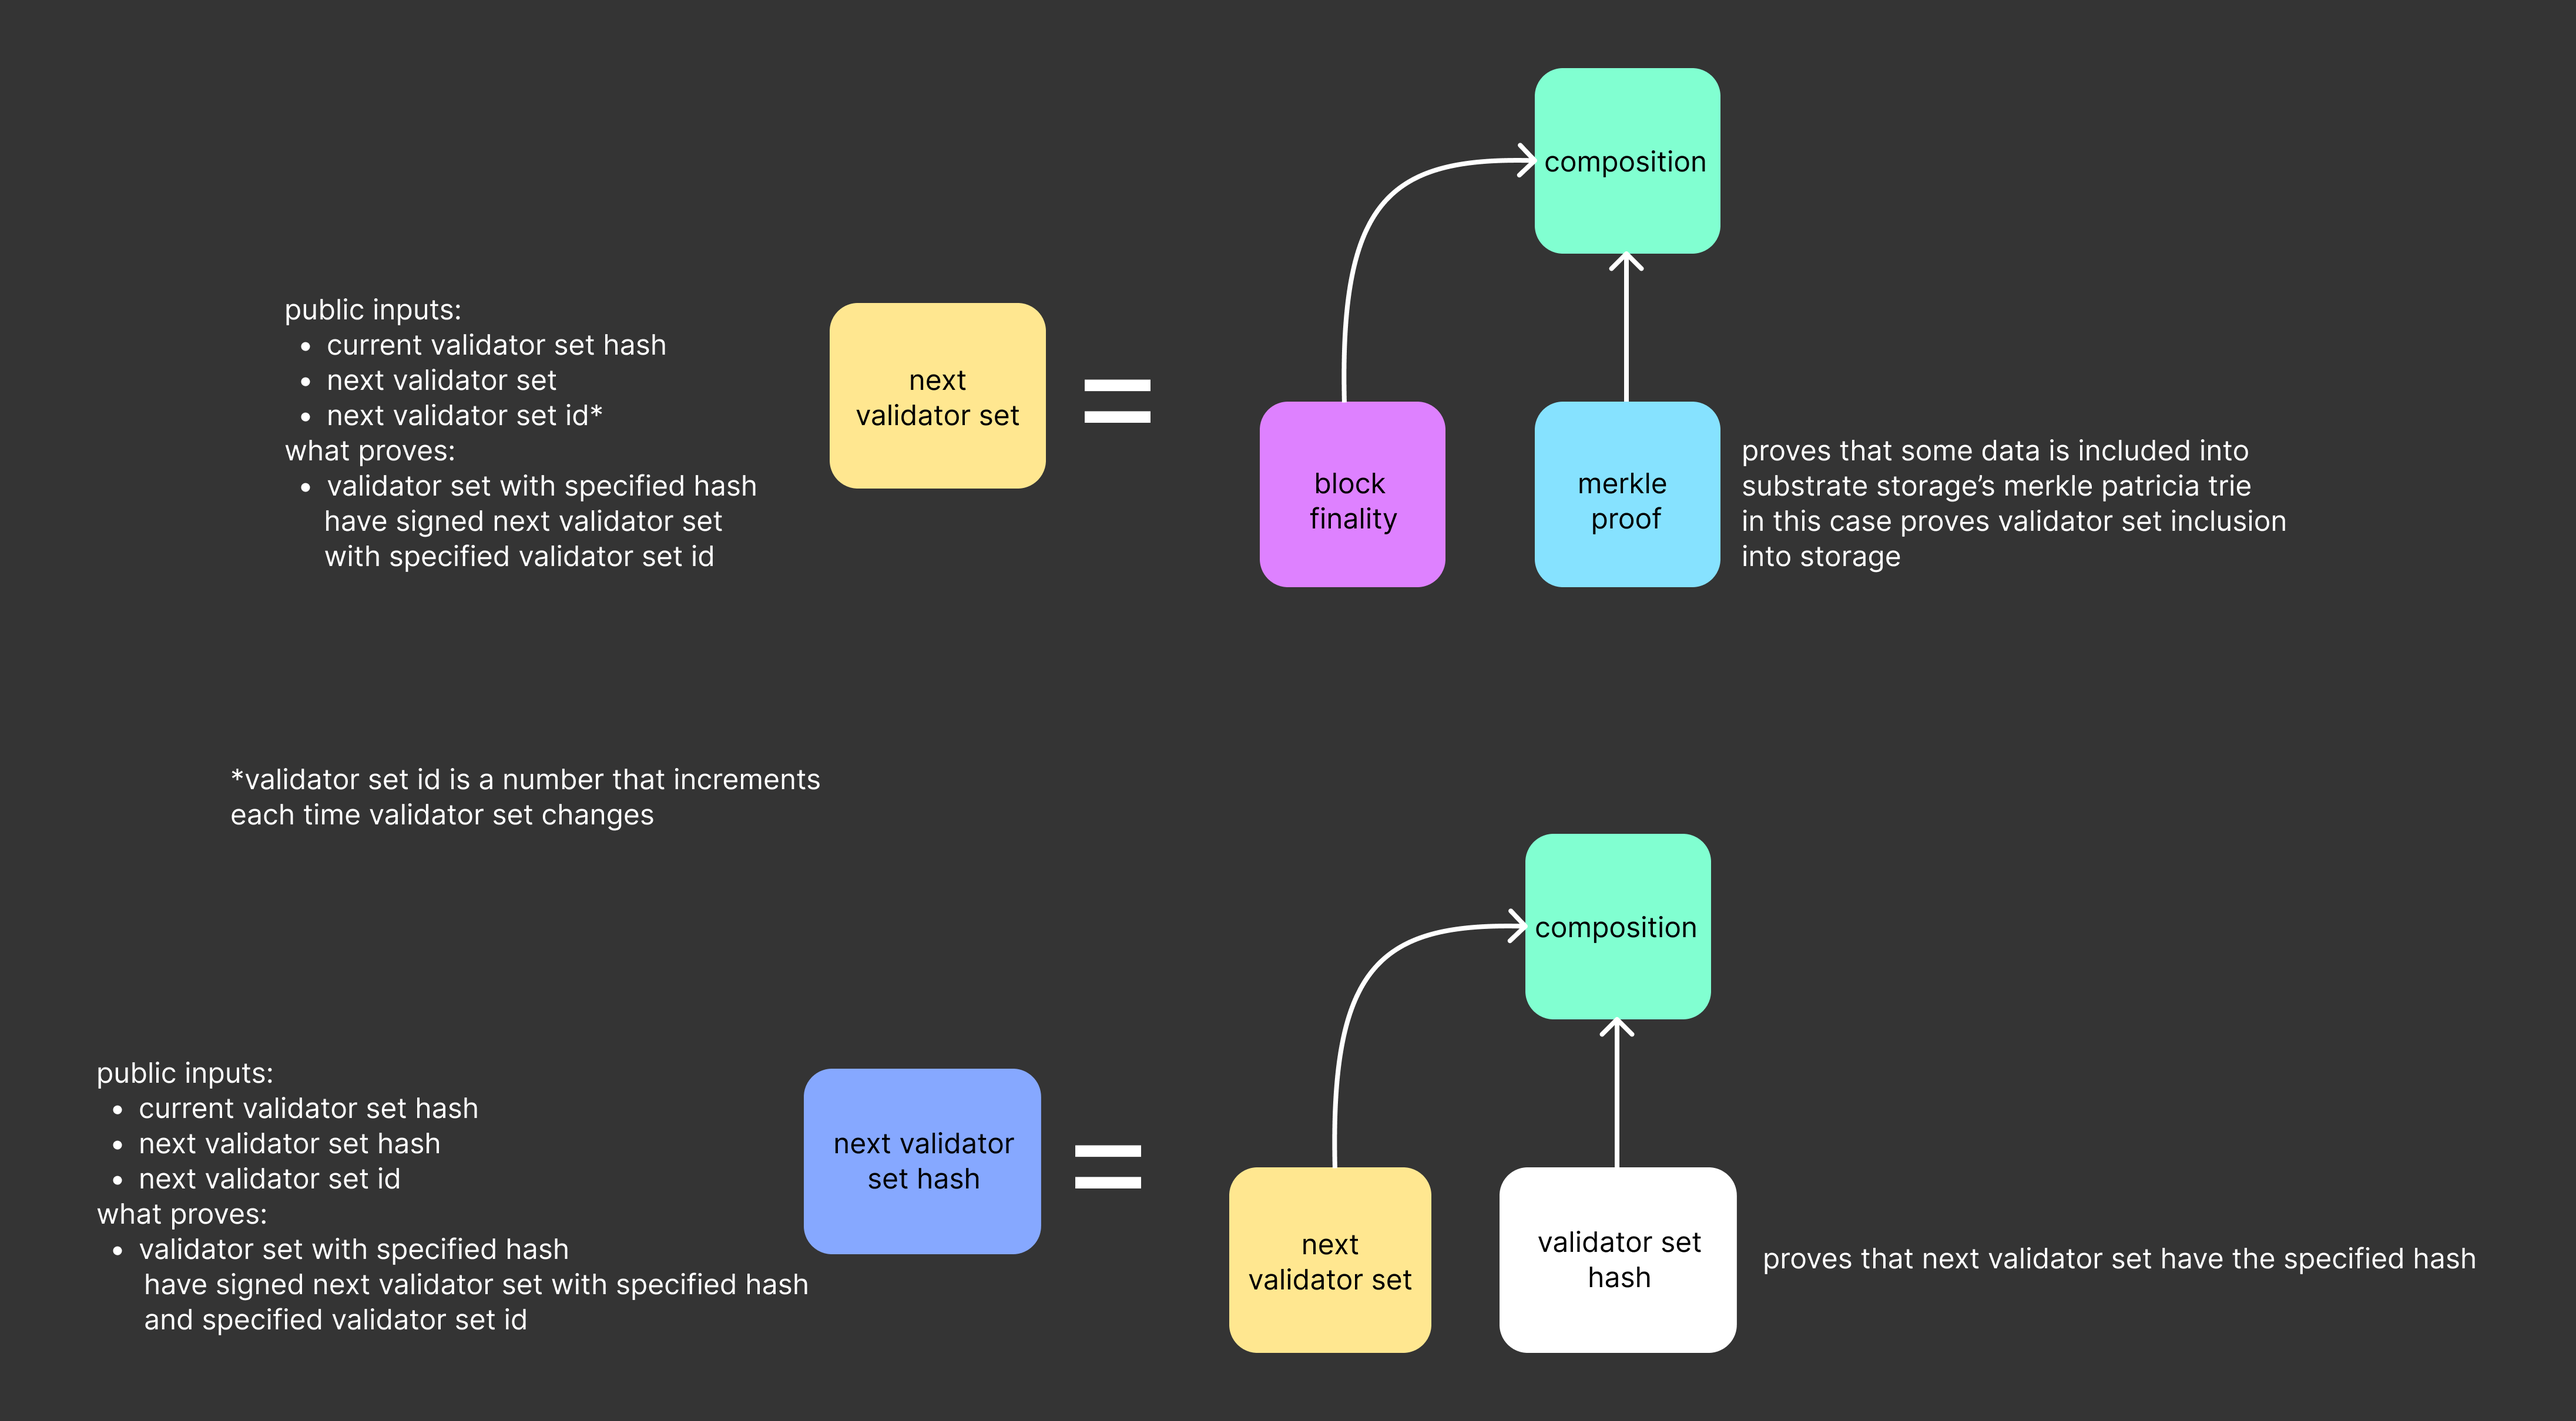
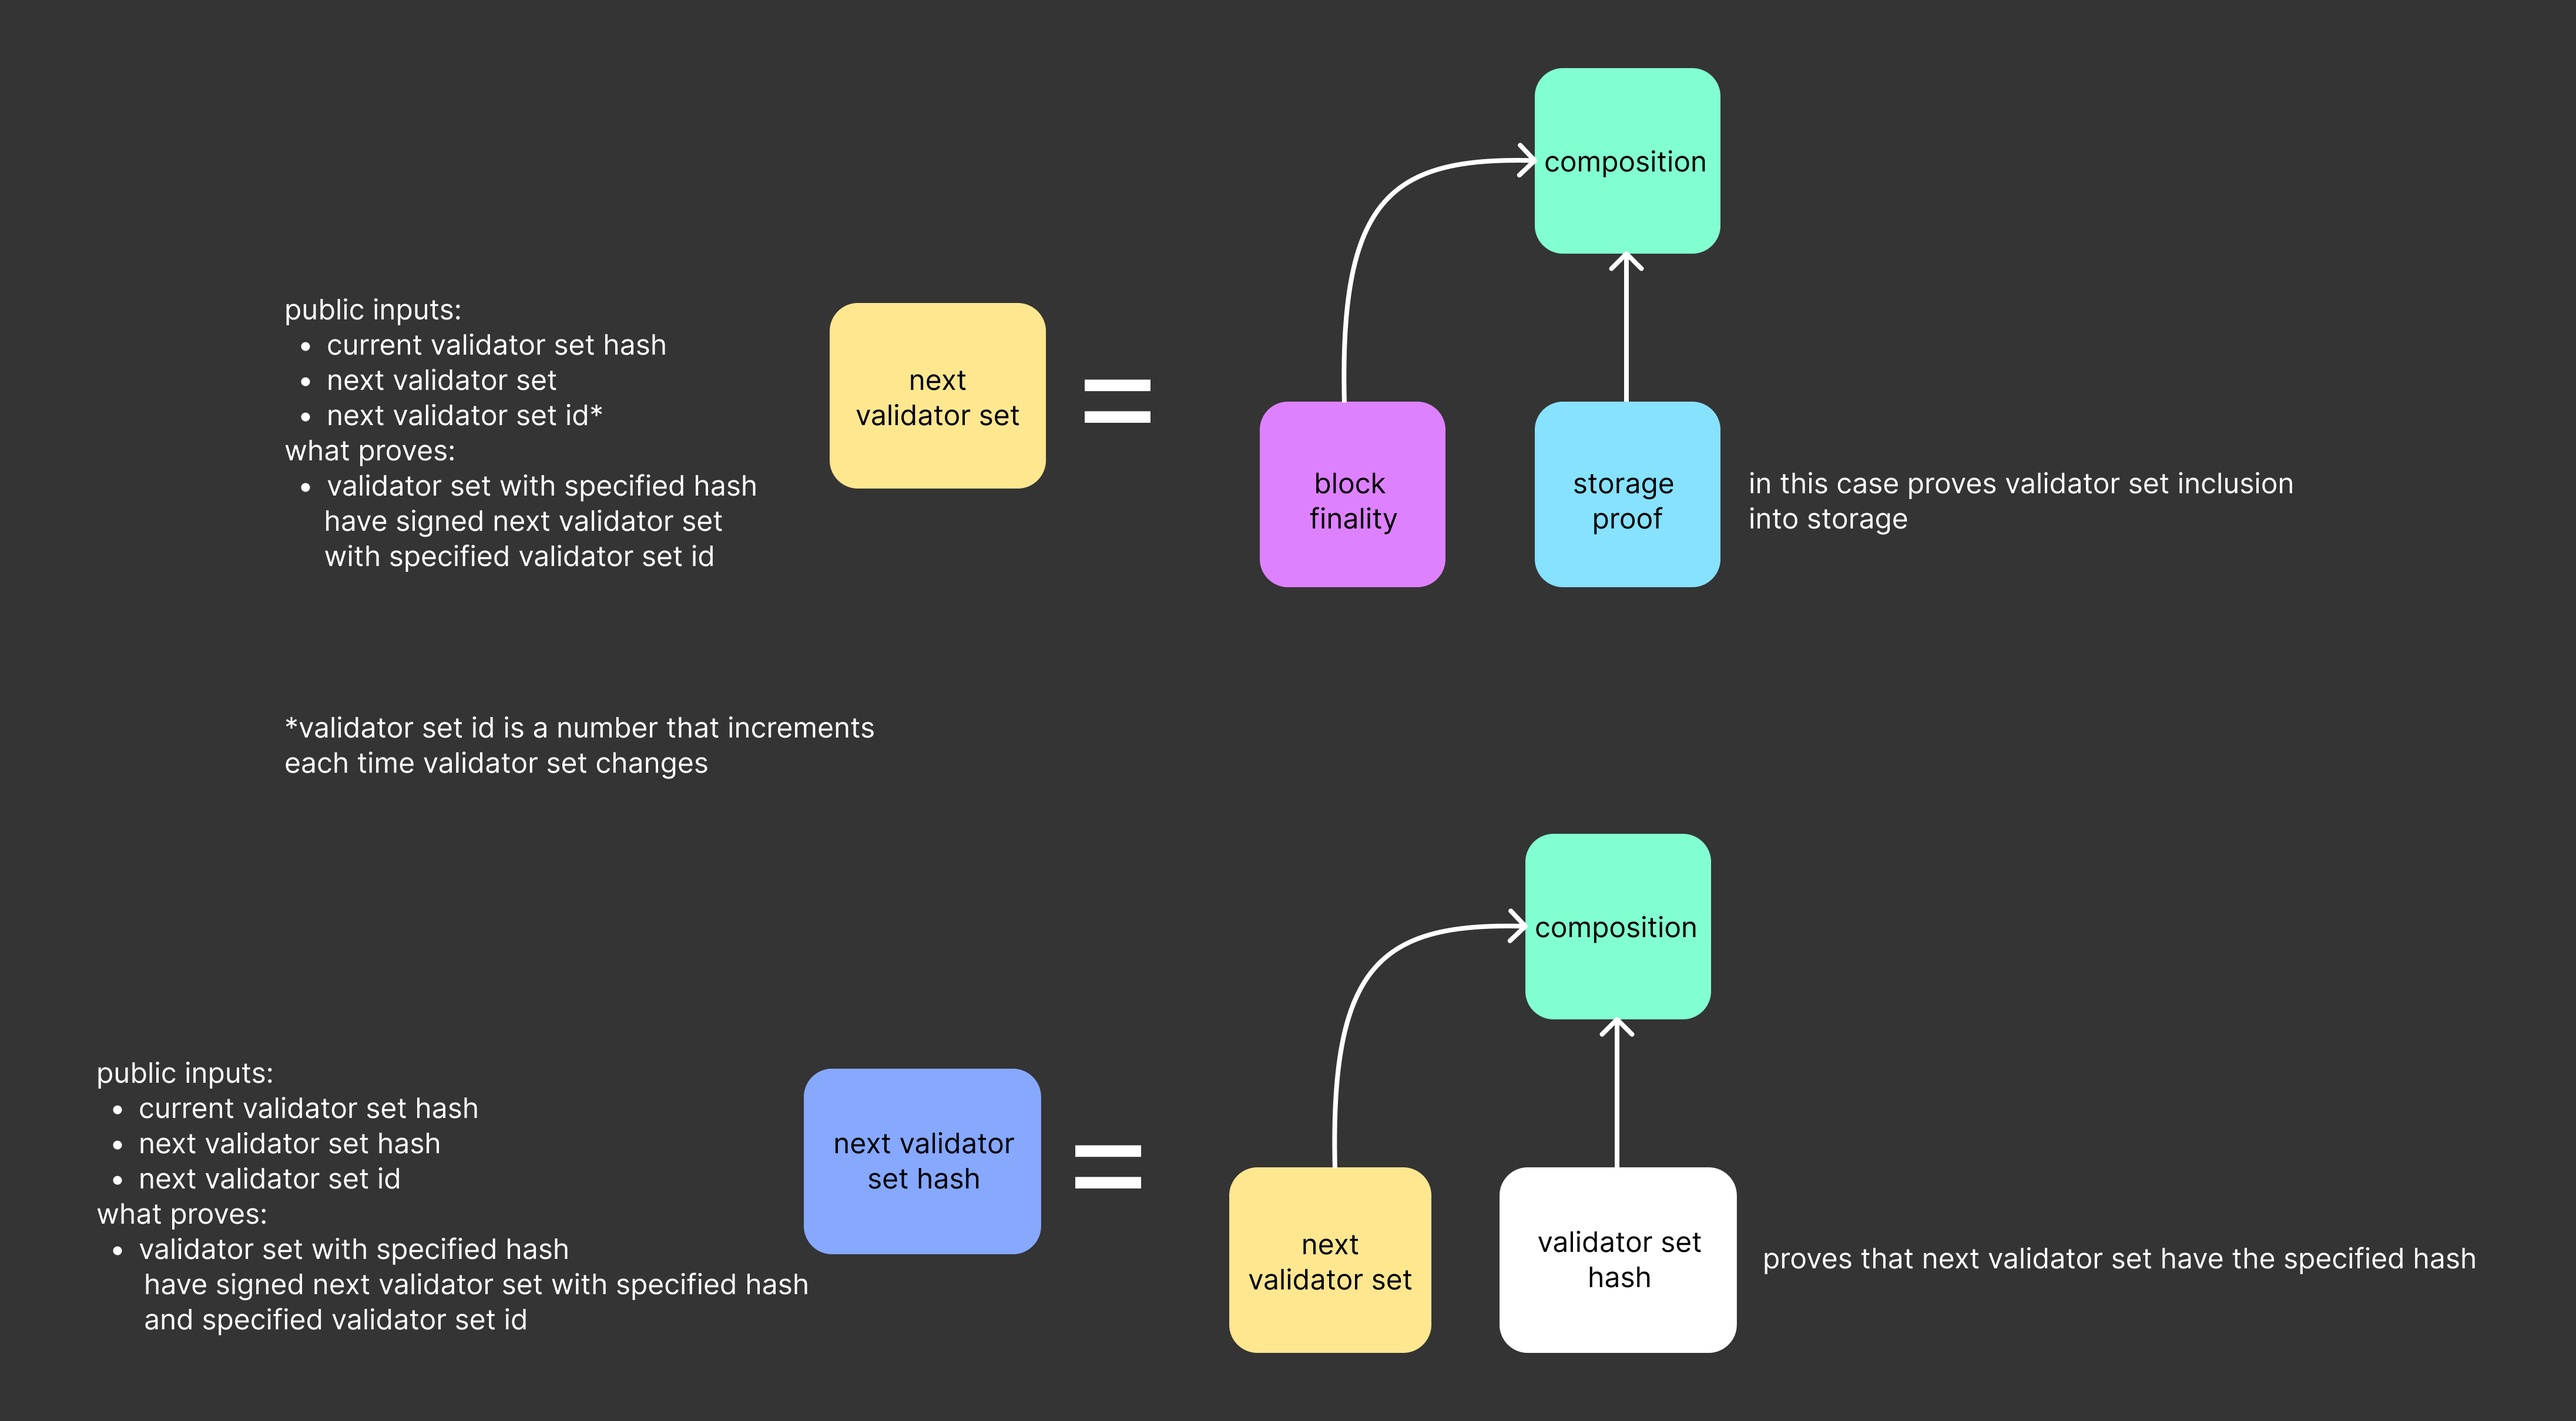
Update README and circuit diagrams

Changed region(s): [[0.0938, 0.4959, 0.3438, 0.5888], [0.625, 0.3099, 0.875, 0.4029]]

diff --git a/README.md b/README.md
@@ -4,32 +4,40 @@ Implementation of zk-based bridge to ethereum for gear-based blockchains.
 
 ## Circuits
 
-#### block finality
+### block finality
 Proves that some block was correctly finalized on the gear chain.
 
 ![block finality circuit](https://github.com/mertwole/gear-bridges/blob/main/images/block_finality_circuit.png)
 
-#### validator set change
+### validator set change
 Used to compose `recent validator set` proof.
 
 ![validator set change circuit](https://github.com/mertwole/gear-bridges/blob/main/images/next_validator_set_circuit.png)
 
-#### substrate storage trie circuit
-Used to prove some item is included into on-chain storage. Consists of circuits for single trie node.
+### substrate storage trie circuit
+There are only two types of nodes currently supported for now:
 
-![merkle patricia tree parser circuit](https://github.com/mertwole/gear-bridges/blob/main/images/mpt_node_parser_circuit.png)
+#### branch node without value
+![branch node parser circuit](https://github.com/mertwole/gear-bridges/blob/main/images/mpt_branch_node_parser_circuit.png)
 
-#### recent validator set
+#### hashed value leaf
+![leaf node parser circuit](https://github.com/mertwole/gear-bridges/blob/main/images/mpt_leaf_node_parser_circuit.png)
+
+They're composed into storage proof, which prove that some block contains data in storage at particular address
+
+![storage proof circuit](https://github.com/mertwole/gear-bridges/blob/main/images/storage_proof_circuit.png)
+
+### recent validator set
 Used to prove chain of validator set changes to prove transition from genesis to the recent validator set in one proof.
 
 ![recent validator set circuit](https://github.com/mertwole/gear-bridges/blob/main/images/recent_validator_set_circuit.png)
 
-#### message sent
+### message sent
 Used to prove that specific message was submitted on gear chain for bridging.
 
 ![message sent circuit](https://github.com/mertwole/gear-bridges/blob/main/images/message_sent_circuit.png)
 
-#### final proof
+### final proof
 Proof that's submitted to ethereum.
 
 ![final proof circuit](https://github.com/mertwole/gear-bridges/blob/main/images/final_proof_circuit.png)
